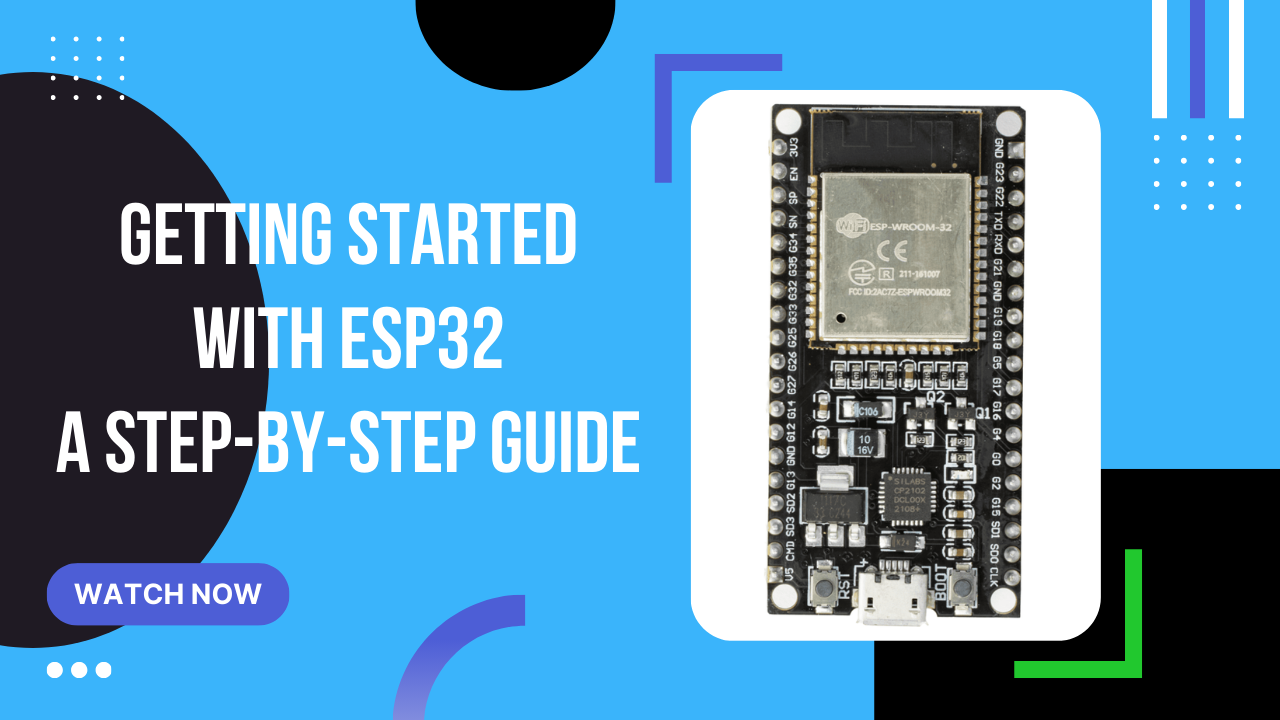
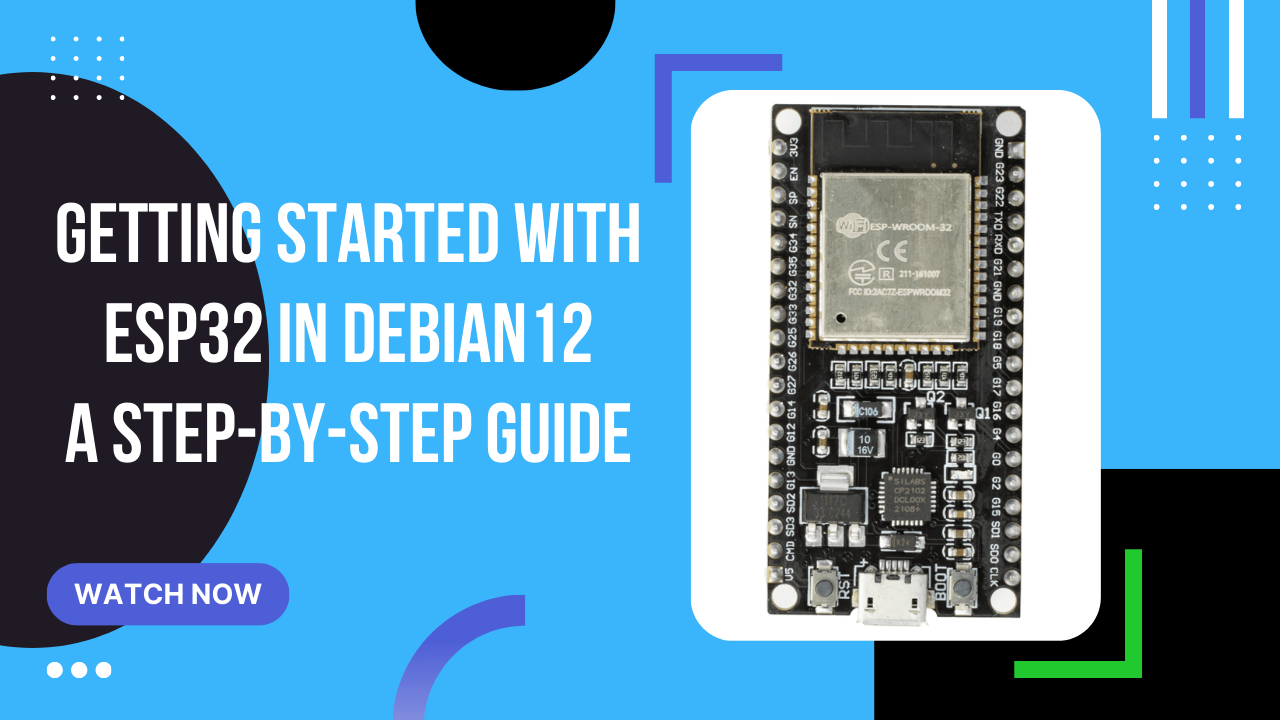
Updated: Getting started with ESP32 in Debian 12 - a step-by-step guide

Changed region(s): [[0.0312, 0.55, 0.5, 0.6722], [0.0625, 0.3972, 0.4688, 0.5194], [0.0312, 0.275, 0.5, 0.3667]]

diff --git a/content/en/blog/getting-started-with-esp32.md b/content/en/blog/getting-started-with-esp32.md
@@ -1,7 +1,7 @@
 ---
-title: Getting started with ESP32 - a step-by-step guide
+title: Getting started with ESP32 in Debian 12 - a step-by-step guide
 date: 2024-08-02T11:50:00+00:00
-description: Getting started with ESP32 - a step-by-step guide
+description: Getting started with ESP32 in Debian 12 - a step-by-step guide
 draft: true
 hideToc: false
 enableToc: true
@@ -17,7 +17,7 @@ categories:
 image: images/2024-thumbs/esp32.webp
 ---
 
-To connect ESP32 to your computer, you will need to follow these steps:
+To connect ESP32 to your computer with Linux Debian 12, you will need to follow these steps:
 
 1. USB Cable: You need a USB to micro-USB or USB-C cable, depending on the port type in your ESP32.
 2. Drivers: Most modern operating systems automatically recognize ESP32, but you may need to install CP210x USB to UART Bridge VCP drivers.
@@ -25,8 +25,6 @@ To connect ESP32 to your computer, you will need to follow these steps:
    - Connect the USB cable to the ESP32.
    - Connect the other end of the cable to a USB port on your computer.
 4. Checking the connection:
-   - On Windows, check the Device Manager.
-   - On macOS, use the command "ls /dev/cu.*" in the terminal.
    - On Linux, use the command "ls /dev/tty*" in the terminal.
 You should see a new serial device.
 5. Software: For programming ESP32, you can use Arduino IDE or the ESP-IDF platform.
@@ -58,31 +56,7 @@ How do I know which port to use?
 - Compare the results - the new port that appeared is probably your ESP32
 - It will usually be something like `/dev/ttyUSB0` or `/dev/ttyACM0`
 
-**On Windows:**
-
-- Open Device Manager
-- Expand the "Ports (COM & LPT)" section
-- Connect the ESP32 to your computer
-- A new port should appear, usually labeled as "Silicon Labs CP210x USB to UART Bridge" or similar
-- Remember the COM port number (e.g., COM3, COM4, etc.)
-
-**On macOS:**
-
-- Open Terminal
-- Type: `ls /dev/cu.*`
-- Connect the ESP32
-- Type again: `ls /dev/cu.*`
-- The new port is probably your ESP32, usually in the form of `/dev/cu.SLAB_USBtoUART` or similar
-
-**In Arduino IDE:**
-
-- Connect the ESP32
-- Go to "Tools" > "Port"
-- You should see a new port in the list
-
 If you're unsure, you can disconnect and reconnect the ESP32, observing which port disappears and reappears on the list.
-
-Remember that the port name may vary depending on the driver and operating system. If you're still having trouble identifying the port, let me know, and I'll help you in more detail.
 
 3.Perform the backup:
 
@@ -101,7 +75,7 @@ A few notes:
 
 - Make sure you have enough disk space (the file will be about 4MB).
 - The process may take a few minutes.
-- If you encounter connection problems, you may need to hold down the BOOT button when starting the process.
+- If you encounter connection problems, you may need to repeat the command to perform a backup.
 
 To restore this copy later:
 
@@ -180,3 +154,8 @@ After installing Arduino IDE and connecting ESP32, the next steps are:
 
 5. Programming:
    - Now you can start writing your own programs or modify existing examples
+
+6. Testing application/code
+   - Open Tools > Serial Monitor
+   - Set baud to 115200
+   - Observe the result of the code
